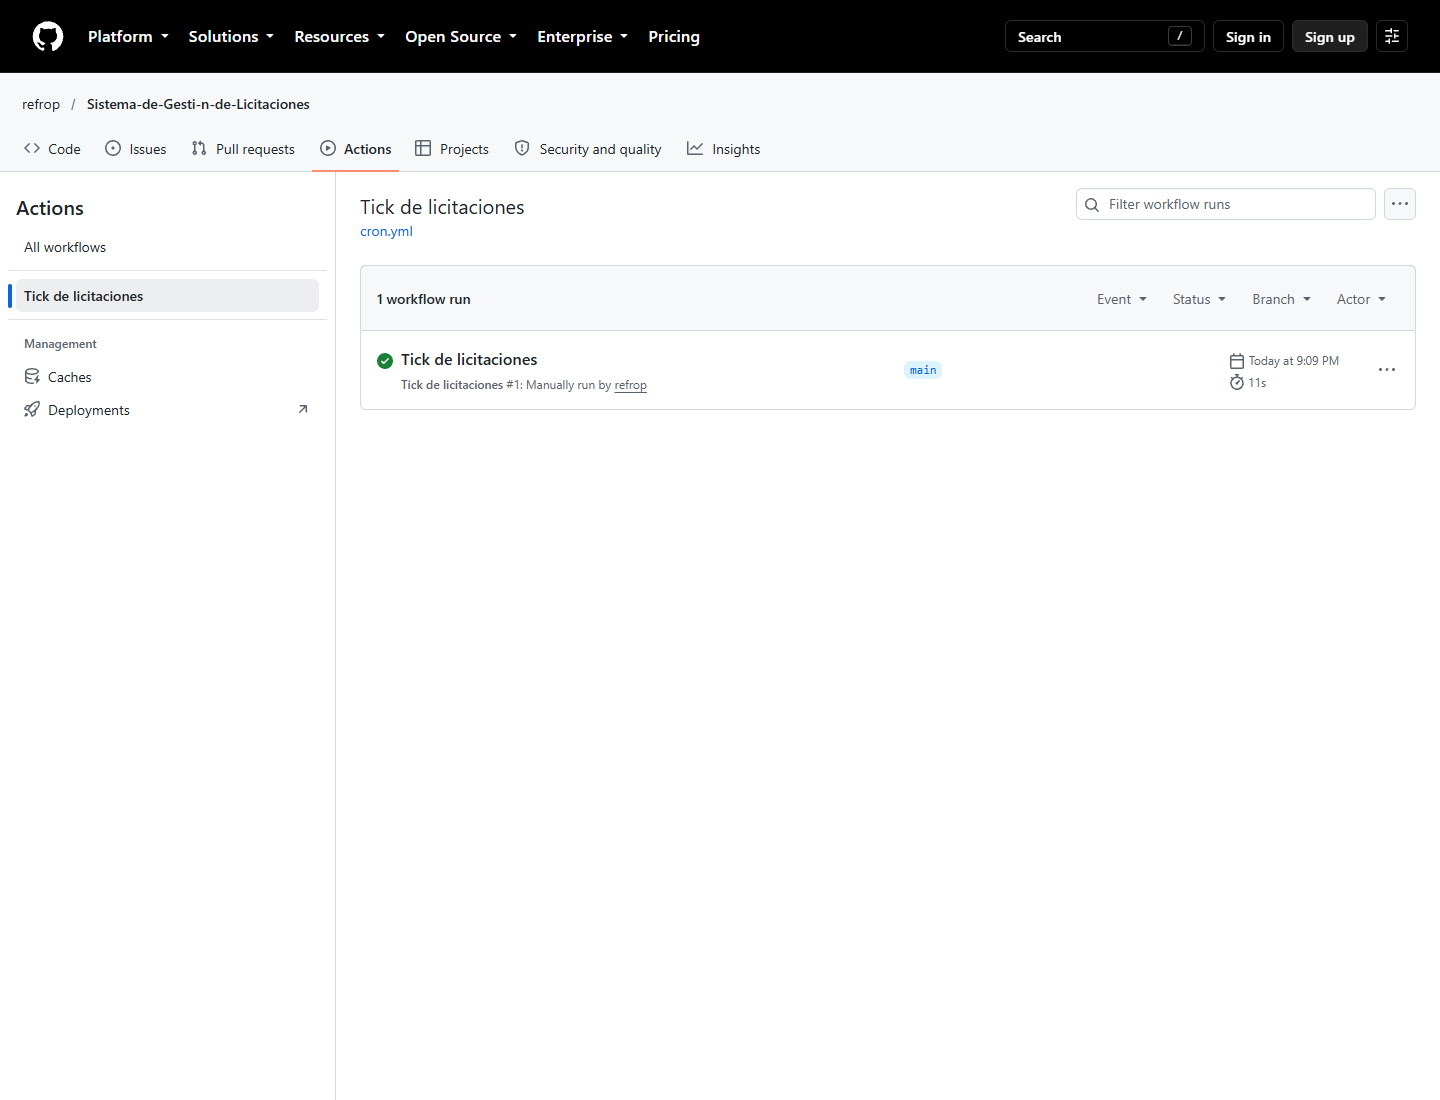
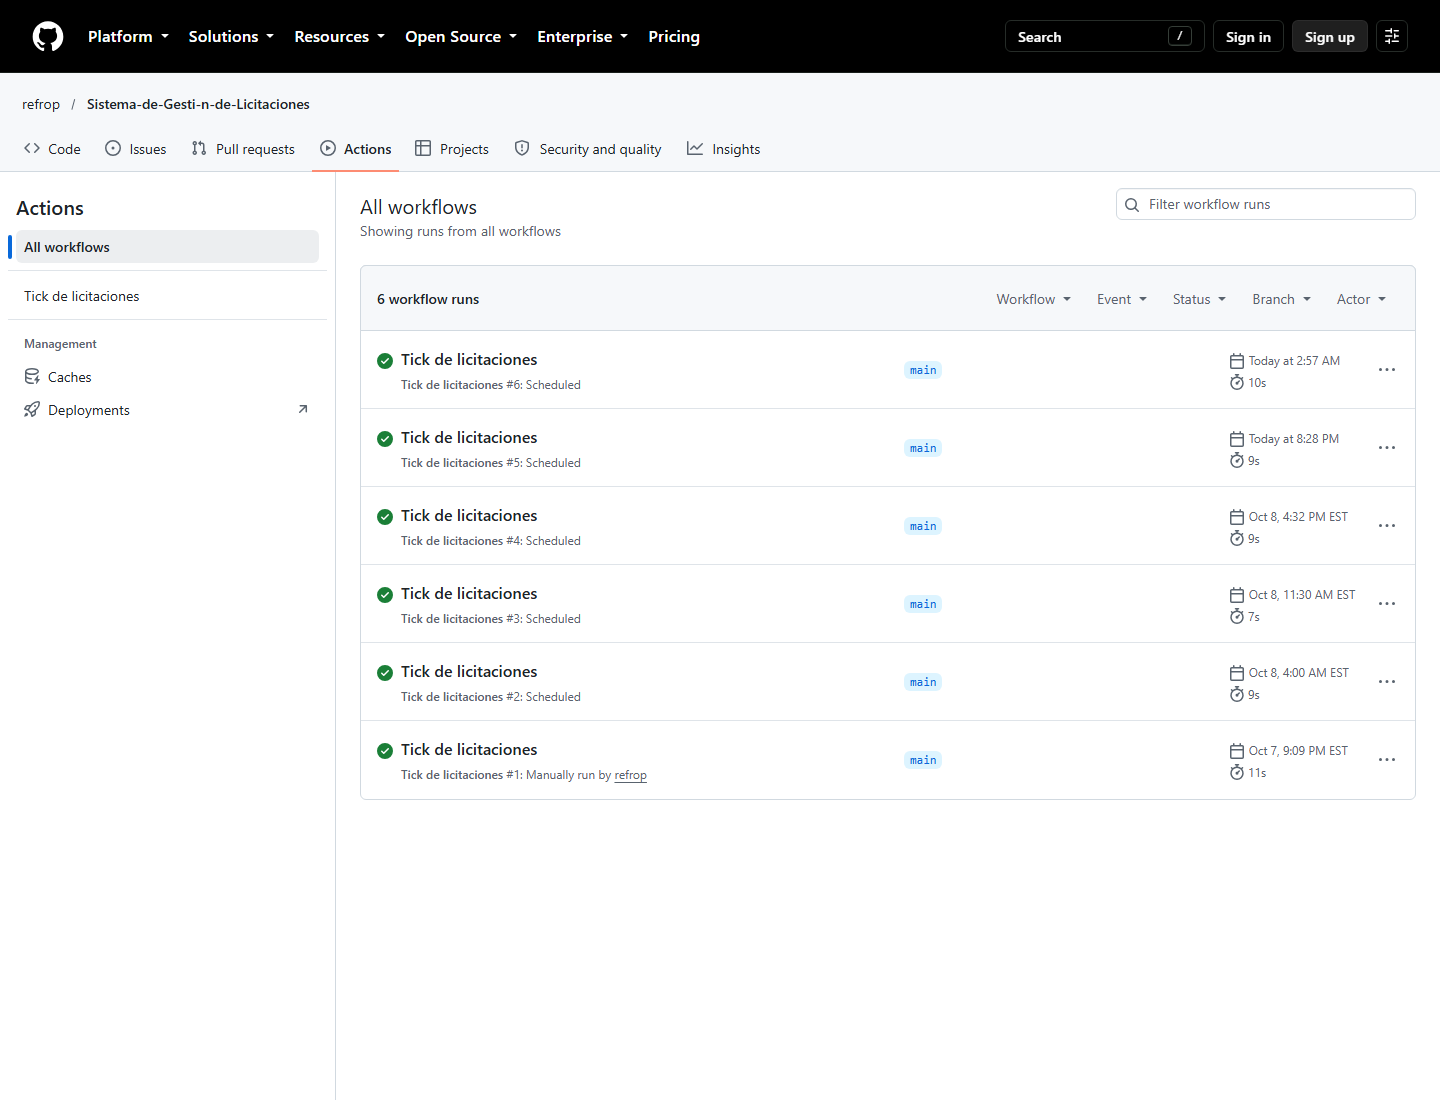
Docs: capturas regeneradas sobre la UI cosmic actual + login en la cabecera del README

diff --git a/README.md b/README.md
@@ -1,5 +1,9 @@
 # Sistema de Gestión de Licitaciones
 
+<p align="center">
+  <img src="docs/login.png" alt="Pantalla de login — nebulosa cosmic" width="800">
+</p>
+
 ## 1. Encabezado y acceso rápido
 
 Gestión de licitaciones de principio a fin: creación de propuestas con productos y presupuesto, documento PDF en Supabase Storage, envío real por correo con adjunto, máquina de estados con historial y trazabilidad completa de correos. Backend y frontend desplegados en Vercel sobre Supabase: login, layout, listados/alta, **detalle de licitación** (productos, totales, documento, envío, ciclo completo, historial y correos), **panel de próximas a vencer** y **documentación de la API**.
@@ -480,34 +484,40 @@ Corren contra la **misma BD que usa producción** (`.env` local apunta al pooler
 
 | Evidencia | Estado |
 |---|---|
-| Correo de envío con el PDF adjunto (inbox/Spam, fase 5) | ✅ [`docs/evidencia-correo.png`](#correo-de-envío-con-el-pdf-adjunto-fase-5) |
-| Correo de recordatorio del cron (inbox/Spam, fase 7) | ✅ [`docs/evidencia-cron-correo.png`](#correo-de-recordatorio-del-cron-fase-7) |
+| Cuerpo del correo de envío (plantilla actual, renderizada; el PDF se adjunta al enviar) | ✅ [`docs/evidencia-correo.png`](#correo-de-envío-con-el-pdf-adjunto-fase-5) |
+| Cuerpo del correo de recordatorio del cron (plantilla actual, renderizada, fase 7) | ✅ [`docs/evidencia-cron-correo.png`](#correo-de-recordatorio-del-cron-fase-7) |
 | `EmailLog` del envío real (providerId `01a116ae-eb87-786f-bdb9-e442a34f0cba`, estado `enviado`) | ✅ verificado en producción |
 | Documento accesible por URL pública (HTTP 200, `application/pdf`) | ✅ [`Propuesta_Evidencia_Fase_5.pdf`](https://tcrjekibvnzjnbxdebto.supabase.co/storage/v1/object/public/proposals/tenders/ec4dda0d-e4d6-4883-bfbb-39fc0c813a41/1791381921609-Propuesta_Evidencia_Fase_5.pdf) |
 | Prueba E2E en producción (checklist del enunciado) | ✅ [`docs/evidencia-e2e.png`](#prueba-e2e-en-producción) |
 | Tick automático sin intervención (recordatorio + vencimiento resueltos en el mismo tick) | ✅ 08/10/2026 **05:43:57 UTC** por Vercel Cron → [`recordatorio`](#tick-automático-recordatorio) y [`vencimiento`](#tick-automático-vencimiento) (`userId: null`, `vencimiento_automatico`) |
-| Workflow de GitHub Actions (tick bajo demanda) | ✅ [`docs/evidencia-cron-actions.png`](#workflow-de-github-actions) (run #1 manual → `success`; el `schedule` aún no dispara, ver §13) |
+| Workflow de GitHub Actions (tick bajo demanda + schedule) | ✅ [`docs/evidencia-cron-actions.png`](#workflow-de-github-actions) (1 run manual + 5 `Scheduled`, todos `success`) |
 | Frontend fase 8 (login, layout, 5 listados + alta) smoke E2E con Playwright | ✅ verificado en local antes de cada commit |
 | Frontend fase 9 (detalle, documento + envío, ciclo, panel de vencer) smoke E2E con Playwright | ✅ verificado en local antes de cada commit |
 | Documentación interactiva `/api/docs` + spec público `/api/openapi.json` | ✅ testeado en `docs.test.ts` y verificado en producción |
 
+> Capturas regeneradas sobre la UI cósmica actual (09/10/2026): app y GitHub Actions contra producción; los dos correos son el **render de las plantillas vigentes** (`mail-templates.ts`) con datos de ejemplo. El correo personal del cliente aparece difuminado en los detalles.
+
 ### Correo de envío con el PDF adjunto (fase 5)
 
-<img src="docs/evidencia-correo.png" alt="Correo de envío con el PDF adjunto" width="800">
+Cuerpo del correo que envía la app al enviar una licitación (el PDF de la propuesta se adjunta; la URL pública del documento está en la tabla de arriba).
+
+<img src="docs/evidencia-correo.png" alt="Cuerpo del correo de envío con la plantilla actual" width="800">
 
 ### Correo de recordatorio del cron (fase 7)
 
-<img src="docs/evidencia-cron-correo.png" alt="Correo de recordatorio del cron" width="800">
+Cuerpo del recordatorio automático (ventana de 48 h) generado por la plantilla vigente.
+
+<img src="docs/evidencia-cron-correo.png" alt="Cuerpo del correo de recordatorio con la plantilla actual" width="800">
 
 ### Prueba E2E en producción
 
-Login → panel de vencer → listado con las 5 licitaciones → `/api/docs`; 0 errores JS/5xx.
+Login → panel de vencer → listado con filtros, badges de estado y paginación; 0 errores JS/5xx.
 
 <img src="docs/evidencia-e2e.png" alt="Prueba E2E en producción" width="800">
 
 ### Tick automático: recordatorio
 
-Vercel Cron 08/10/2026 05:43:57 UTC — recordatorio enviado sin intervención manual.
+Vercel Cron 08/10/2026 05:43:57 UTC — recordatorio enviado sin intervención manual (`EmailLog recordatorio → enviado`).
 
 <img src="docs/evidencia-cron-recordatorio.png" alt="Tick automático: recordatorio" width="800">
 
@@ -519,7 +529,7 @@ Mismo tick — licitación vencida → `perdida` con `userId: null` y `vencimien
 
 ### Workflow de GitHub Actions
 
-Run #1 manual (`workflow_dispatch`) → `success`; el evento `schedule` aún no dispara (§13).
+Run #1 manual (`workflow_dispatch`) + 5 runs `Scheduled` automáticos, todos `success`.
 
 <img src="docs/evidencia-cron-actions.png" alt="Workflow de GitHub Actions" width="800">
 

diff --git a/docs/README.md b/docs/README.md
@@ -4,12 +4,13 @@ Archivos de evidencia del proyecto. Guardar cada uno en cuanto se genere (no esp
 
 | Archivo | Descripción | Estado |
 |---|---|---|
-| `evidencia-correo.png` | Captura del correo de envío (fase 5) con el PDF adjunto (inbox o Spam) | ✅ |
-| `evidencia-cron-correo.png` | Captura de los correos de recordatorio del cron (fase 7, inbox o Spam) | ✅ |
-| `evidencia-cron-recordatorio.png` | Sonda fase 10: recordatorio disparado **solo** por el cron (05:43:57 UTC, sin llamar a `/api/cron/tick`) | ✅ |
-| `evidencia-cron-vencimiento.png` | Sonda fase 10: licitación que pasa sola a `perdida` (`userId` nulo, `vencimiento_automatico`, 05:43:57 UTC) | ✅ |
-| `evidencia-cron-actions.png` | Workflow "Tick de licitaciones" en la pestaña Actions (el `schedule` aún no dispara; ver nota abajo) | ✅ |
-| `evidencia-e2e.png` | Prueba E2E en producción: login, panel de vencer, listado con las 5 licitaciones y `/api/docs` | ✅ |
+| `evidencia-correo.png` | Cuerpo del correo de envío (fase 5) renderizado desde la plantilla actual (`mail-templates.ts`); el PDF se adjunta al enviar | ✅ |
+| `evidencia-cron-correo.png` | Cuerpo del correo de recordatorio del cron (fase 7) renderizado desde la plantilla actual | ✅ |
+| `evidencia-cron-recordatorio.png` | Sonda fase 10: detalle de la licitación con `EmailLog recordatorio → enviado` (disparado por el cron, 05:43:57 UTC); UI cósmica actual, correo del cliente difuminado | ✅ |
+| `evidencia-cron-vencimiento.png` | Sonda fase 10: detalle de la licitación que pasó sola a `perdida` (`userId` nulo, `vencimiento_automatico`, 05:43:57 UTC); UI cósmica actual, correo del cliente difuminado | ✅ |
+| `evidencia-cron-actions.png` | Workflow "Tick de licitaciones" en la pestaña Actions: 1 run manual + 5 runs `Scheduled`, todos `success` | ✅ |
+| `evidencia-e2e.png` | Prueba E2E en producción: login, panel de vencer y listado con filtros/badges (UI cósmica actual) | ✅ |
+| `login.png` | Pantalla de login (nebulosa cosmic) — cabecera del README raíz | ✅ |
 
 ## Cómo generar la evidencia del envío
 
